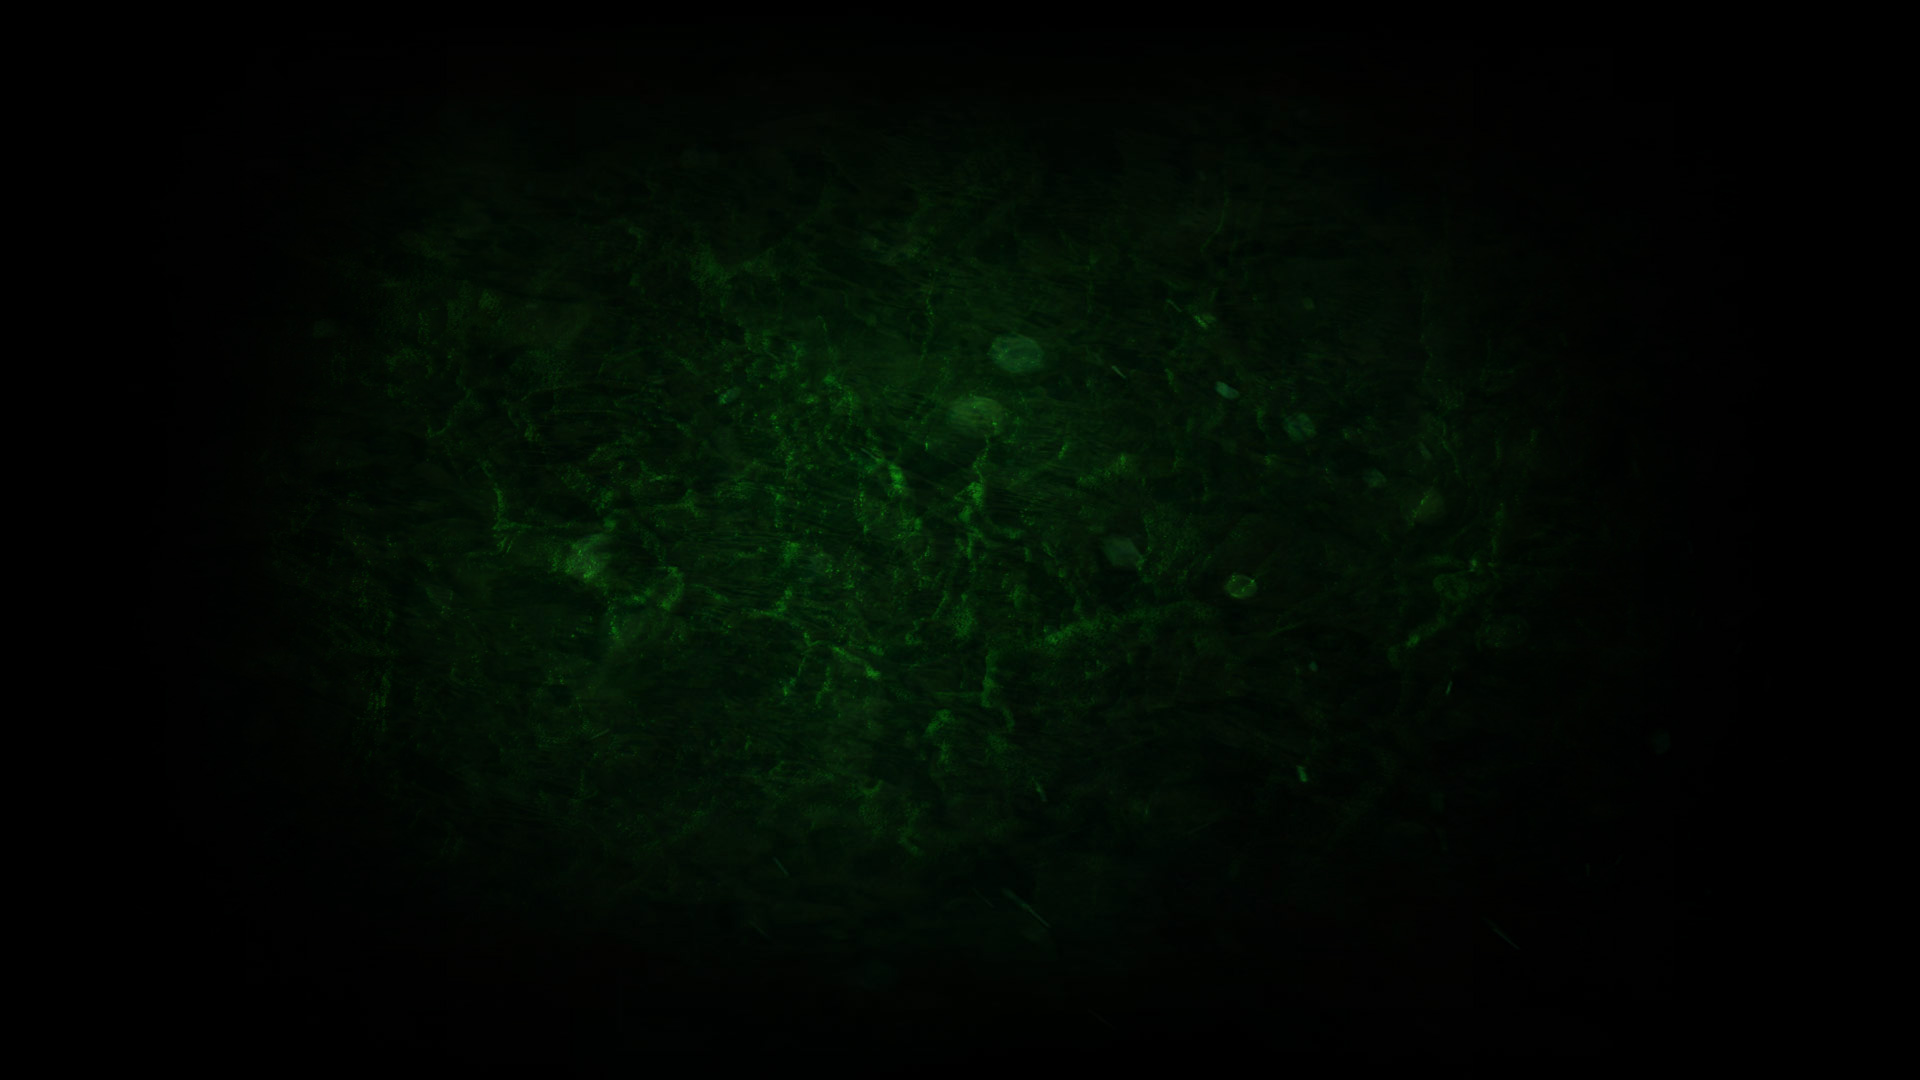
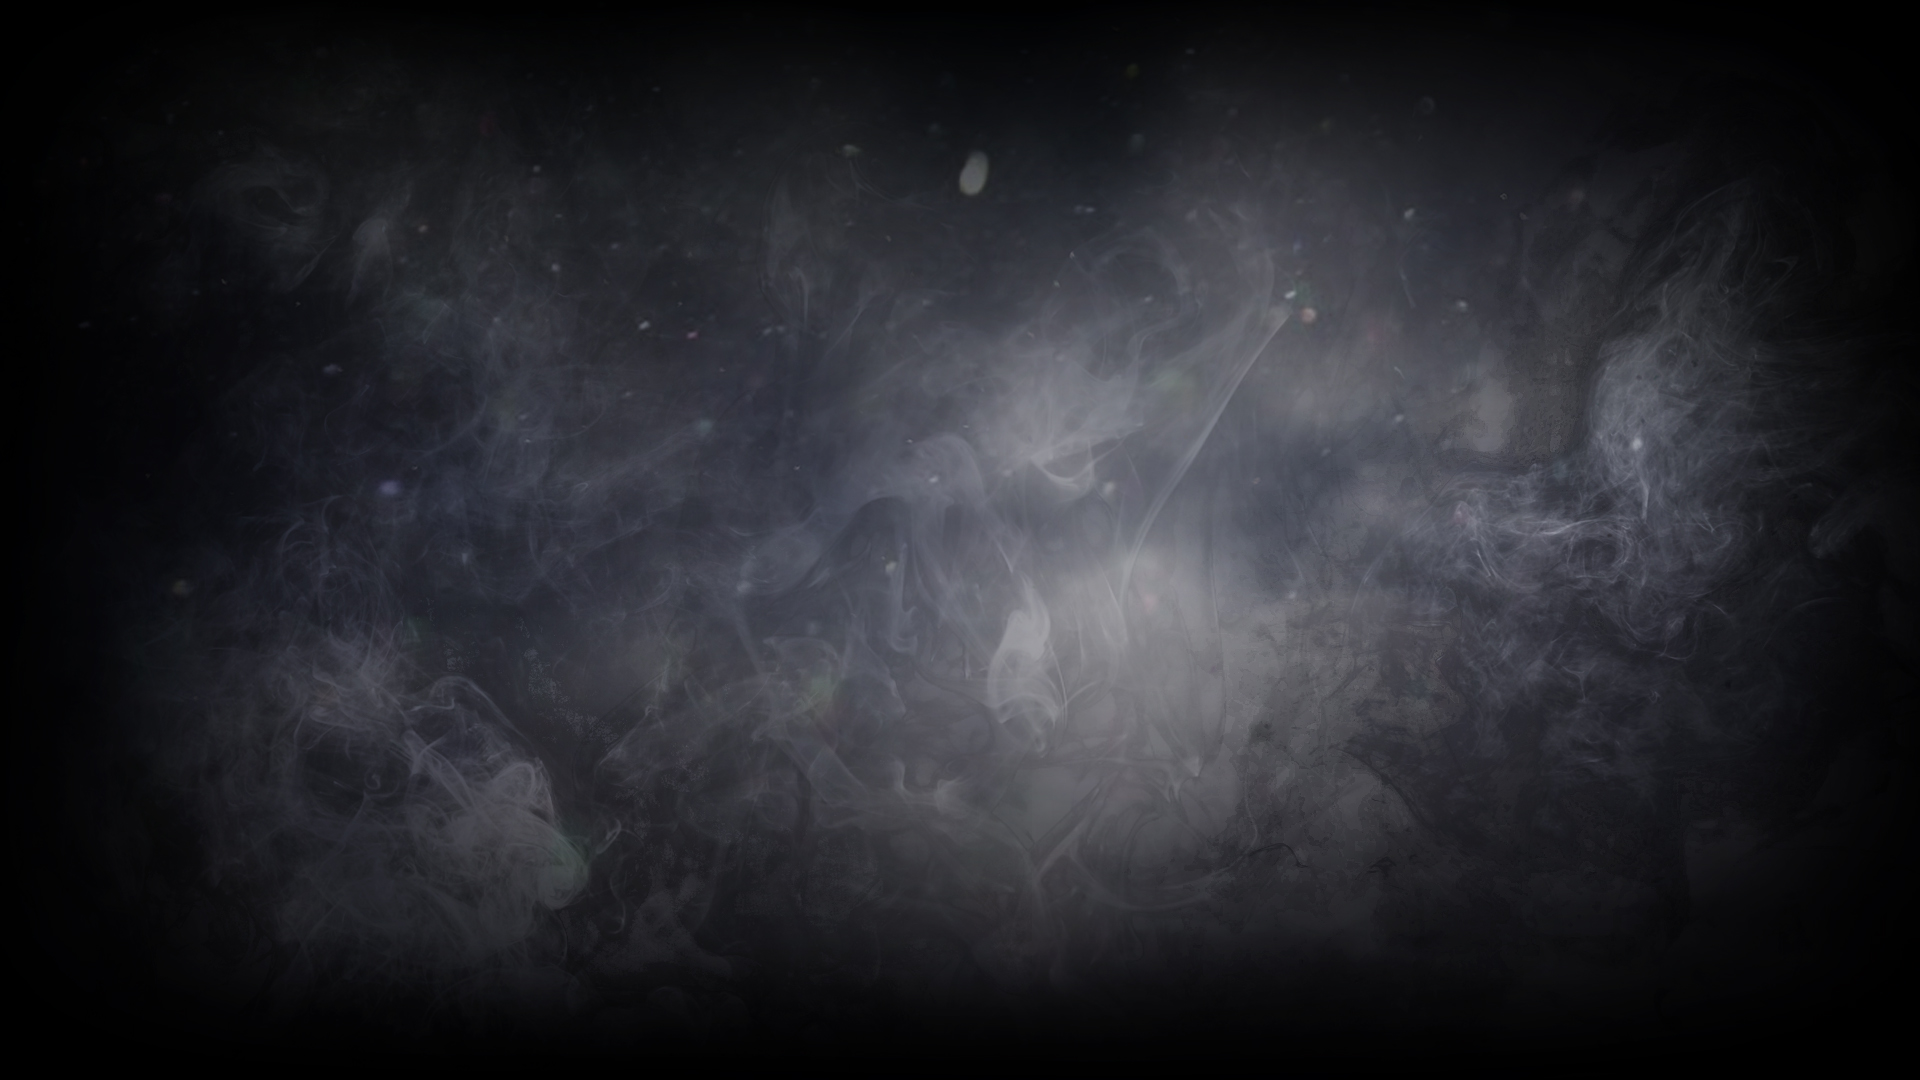
Delirium Update

diff --git a/poeladder/static/poeladder/css/main.css b/poeladder/static/poeladder/css/main.css
@@ -221,3 +221,85 @@ a.active-league {background-color: #0066cc}
     height: 30px;
 }
 
+
+.fog {
+    position: relative;
+    height: 100vh;
+    width: 100%;
+    background: #fff;
+  }
+  
+.fog-container {
+    position: absolute;
+    width: 100%;
+    height: 100%;
+    overflow: hidden;
+    z-index: 1;
+  }
+  
+.fog-img {
+    position: absolute;
+    height: 100vh;
+    width: 300vw;
+    z-index: 2;
+  }
+  
+.fog-img-first {
+    background: url("../img/fog-1.png");
+    background-repeat: repeat-x;
+    background-size: contain;
+    background-position: center;
+    animation: marquee 60s linear infinite;
+  }
+  
+.fog-img-second {
+    background: url("../img/fog-2.png");
+    background-repeat: repeat-x;
+    background-size: contain;
+    background-position: center;
+    animation: marquee 30s linear infinite;
+  }
+  
+@keyframes marquee {
+    0% {
+      transform: translate3d(0, 0, 0);
+    }
+  
+    100% {
+      transform: translate3d(-100vw, 0, 0);
+    }
+  }
+
+.absolute-bg {
+    position: absolute;
+    top: 0;
+    left: 0;
+    height: 100%;
+    width: 100%;
+    z-index: 0;
+    background: url("../img/topbg.jpg");
+    background-position: 50%;
+    background-repeat: no-repeat;
+    background-size: cover;
+    overflow: hidden;
+  }
+
+
+.title {
+    position: absolute;
+    top: 0;
+    left: 0;
+    width: 100%;
+    height: 100%;
+    z-index: 10;
+    display: flex;
+    justify-content: center;
+    flex-direction: column;
+    align-items: center;
+  }
+  
+.title > h6 {
+    color: #fff;
+    font-size: 1rem;
+    text-transform: uppercase;
+  }

diff --git a/poeladder/templates/ladder.html b/poeladder/templates/ladder.html
@@ -27,12 +27,21 @@
 {% block content %}
 
 {% if ladder_main %}
-<div class="d-flex h-100 justify-content-center flex-column" style="margin-top:150px">
-    <div class='mx-auto' style="min-width:110px;"><img src="{% static 'poeladder/img/logo.png' %}"> </div>
-    <h6>
-        <div id='timer' class='mx-auto text-center'></div>
-    </h6>
+<section class="fog">
+    <div class="absolute-bg"></div>
+    <div class="fog-container">
+        <div class="fog-img fog-img-first"></div>
+        <div class="fog-img fog-img-second"></div>
+        <div class="title">
+            
+            <div><img src="{% static 'poeladder/img/logo.png' %}"> </div>
+            <h6>
+                <div id='timer'></div>
+            </h6>
+        </div>
 </div>
+</section>
+
 {% endif %}
 
 {% if search %}{% include "search.html"%}{% endif %}

diff --git a/poeladder/static/poeladder/js/ext.js b/poeladder/static/poeladder/js/ext.js
@@ -1,5 +1,5 @@
 window.onload = () => {
-  const release = new Date("12/13/2019 20:00:00 UTC");
+  const release = new Date("03/13/2020 20:00:00 UTC");
 
   if (release > new Date()) {
     $("#timer").countdown({ until: release, padZeroes: true, labels: [] });
